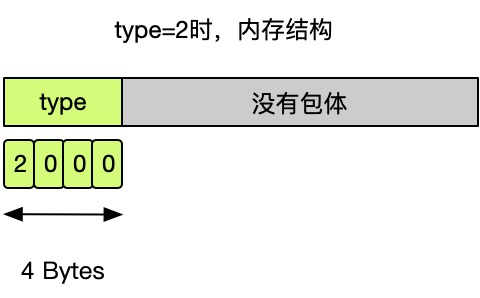
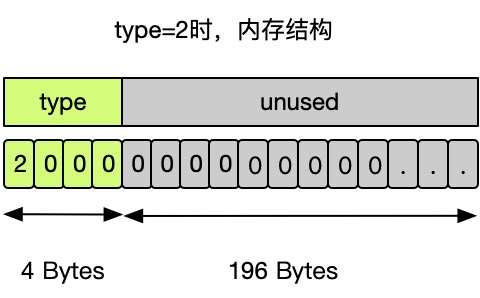
update

diff --git a/v-beta/chapter2/3-project-p2p-2.md b/v-beta/chapter2/3-project-p2p-2.md
@@ -20,11 +20,13 @@ std::string text = input_str.substr(arr[0].length() + arr[1].length() + 2, input
 int ret = ::sendto(g_listen_fd, text.c_str(), text.length(), 0, (struct sockaddr *) &dest_addr,sizeof(dest_addr));
 ```
 
-现在，我们为了区分数据包是那种格式（确认消息或者文本内容），我们用一个整型来表示，假设使用int32_t，它是4个字节大小，因为文本内容不固定，为了方便解析，我们把这4个字节放在最前面，假设我们规定：
+### 协议
 
-- 数据包大小是固定长度，`每一个都是200字节`。
+现在，我们为了区分数据包是那种格式（确认消息或者文本内容），我们用一个整型来表示，假设使用int32_t，它是4个字节大小，因为文本内容是变长的。所为了方便解析，我们把这4个字节放在最前面，假设我们规定：
 
-- 数据包`开始4个字节存放一个整数type`，type表示后续的内容是什么
+- 数据包大小是固定长度，`每一个都是200字节`。前面4个字节是一个整数，我们称之为`头部（包头）`。后面196个字节是内容，我们称之为`数据部（包体）`。
+
+- 数据包`开始4个字节存放一个整数type`，type表示后续数据部的内容是什么
 
   - 当type=1时，表示该数据包是聊天消息，包的内容应该是下面的格式（假设发送的文本内容为“hello”）：
 
@@ -34,7 +36,7 @@ int ret = ::sendto(g_listen_fd, text.c_str(), text.length(), 0, (struct sockaddr
 
 ![private-protocol-examples-2](../images/private-protocol-examples2.jpg)
 
-- 为了明确知道对方收到了我方发送的文本消息，我们规定：当收到一个type=1的包后，需要立即回复一个type=2的包，即代表了我方收到了消息，给对方一个回复（任何一方收到消息，都需要回复一个ack确认）。
+- 为了明确知道对方收到了我方发送的文本消息，我们规定：`当收到一个type=1的包后，需要立即回复一个type=2的包`，即代表了我方收到了消息，给对方一个回复（任何一方收到消息，都需要回复一个ack确认）。
 
   ![private-protocol-examples3](../images/private-protocol-examples3.jpg)
 
@@ -139,26 +141,32 @@ void UdpServer::onHandle(const char *buffer, int len, struct sockaddr_in &remote
 }
 ```
 
-
-
 ## 协议
-
-在介绍自定义协议之前，我们先来看看，什么是协议。
 
 在汉语词典中，对于协议的解释是：
 
 > *协议是*指两个或两个以上实体为了开展某项活动，经过协商后双方达成的一致意见
 
-通俗点说：`协议就是约定`，双方按照某个标准或者说约定来解释一件事物。在计算机中，主要有2个方面：
+通俗点说：`协议就是约定`，双方按照某个标准或者说约定来解释一件事物，以实现秘密通信的目的。在计算机中，主要有2个方面：
 
 - 数据包的格式：发送时按照什么格式组装数据包，收到一个数据包按照什么格式来解析
 - 交互流程：我给你发送一个请求，你是否要回复，怎么回复，回复几次等等
 
 > 思考，为什么有那么多RFC文档，比如http 1.1 [RFC2616](https://www.rfc-editor.org/rfc/rfc2616.txt)，http 2.0的 [RFC7540](https://www.rfc-editor.org/rfc/rfc7540.txt)、[RFC7541](https://www.rfc-editor.org/rfc/rfc7541.txt)
 
-比如电视剧里面对暗号的场景：“天王盖地虎，小鸡炖蘑菇"，这算不算一种约定或者说协议，只有当对方回答正确了，才能确认是自己人，然后进行下一步。
+我们在 **“自定义协议示例/协议”** 一节中就给大家演示了一个简单的协议：
 
-那么对于计算机而言呢？协议要解决的问题是，对于一串二进制而言，我们如何解析这一串010101？
+- 我们规定了包是固定200字节，分成头部和数据部，数据部的内容根据头部type的不同而不同。
+- 我们规定了头部只有4个字节，只有1个字段type，当type=1时，代表的是聊天消息包，当type=2时，代表的是确认包。
+- 我们规定收到一个type=1，即聊天消息包时，一定要回复一个type=2的确认包。
+
+所以，上面的这些规则就是一个协议，即一系列规则的集合。
+
+更通俗点说，电视剧里面对暗号的场景：“天王盖地虎，小鸡炖蘑菇"，也是一种约定或者说协议，只有当对方回答正确了，才能确认是自己人，然后进行下一步。
+
+对于计算机而言呢？协议要解决的问题是，对于一串二进制而言，我们如何解析这一串010101？如何把整数、字符串转换成二进制，哪些位置放什么内容？
+
+下面，让我们更深入的了解一些协议，我们先从标准协议开始。
 
 ### 标准协议
 
@@ -172,7 +180,7 @@ void UdpServer::onHandle(const char *buffer, int len, struct sockaddr_in &remote
 
 TCP/IP协议中，规定了前14个字节是帧头、20个字节是IP头。
 
-当网卡收到一个数据包时，只需要按照这个格式解析前34个字节，就能从IP头里面解析出源IP和目标IP，这就是协议。
+当网卡收到一个数据包时，只需要按照这个格式解析前34个字节，就能从IP头里面解析出源IP和目标IP。
 
 #### HTTP协议
 
@@ -215,7 +223,7 @@ Content-Type: text/html  # 数据部内容，还有json/application格式，text
 
 
 
-### 自定义协议
+### 何谓自定义协议
 
 被业界认可的，就是标准协议（比如HTTP，TCP，他们都有RFC文档可供查阅），反之，则是自定义协议（又称私有协议）。他们不被认可的，或者故意不公开，来保护安全。
 
